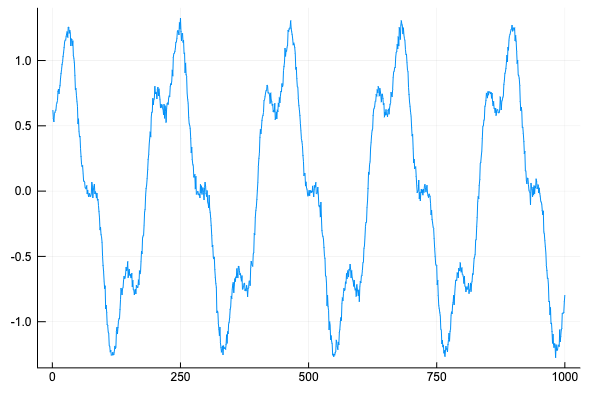
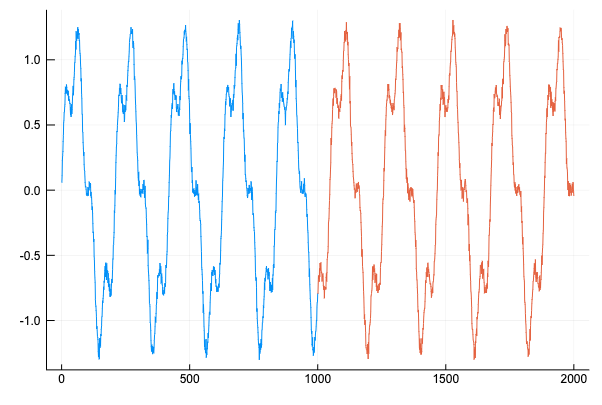
update

diff --git a/_posts/from_notebook/2019-09-04-Julia_notes_07.md b/_posts/from_notebook/2019-09-04-Julia_notes_07.md
@@ -21,11 +21,13 @@ gr()
 I will create some fake time series data as below. It's the composition of two sine functions with some normal distributed error term.
 
 ```julia
-X = sin.(range(1,30,length=1000)) + 0.3 * sin.(range(1,30,length=1000)*4) + randn(1000)/30;
+X = (sin.(range(0.03,30,length=1000)) + 0.3 * sin.(range(0.03,30,length=1000)*4) + randn(1000)/30)
+# test data are future data of the training data
+# they are different from training data because Sin has period 2*pi which is not rational
+X_test = (sin.(range(30.03,60,length=1000)) + 0.3 * sin.(range(30.03,60,length=1000)*4) + randn(1000)/30)
 plot(X,label="");
 ```
 <center><img src="/assets/figures/julia_notes/07_data.png" width="600" ></center>
-
 
 # 2. Problem description
 
@@ -93,15 +95,15 @@ function loss(xs,ys)
     return l
 end
 # Adam optimizer
-opt = ADAM(0.002)
+opt = ADAM(0.001)
 # train for 100 epochs
-epochs = 100
+epochs = 200
 for epoch in 1:epochs
     for minibatch in data
         Flux.train!(loss, params(model),[minibatch], opt)
     end
     # print loss for all three mini-batchs every 10 epochs
-    if epoch % 10 ==0
+    if epoch % 20 ==0
         println("epoch $epoch:")
         println("$(Tracker.data(loss(data[1]...))),\t\t$(Tracker.data(loss(data[2]...))),\t\t$(Tracker.data(loss(data[3]...)))")
     end
@@ -109,26 +111,26 @@ end
 ```
 
 ```
-epoch 10:
-0.20505875,		0.21414189,		0.18985265
 epoch 20:
-0.06137546,		0.061469544,		0.05728308
-epoch 30:
-0.026156224,		0.026726793,		0.027290648
+0.17965314,		0.19062711,		0.17659807
 epoch 40:
-0.021102335,		0.021497905,		0.022359867
-epoch 50:
-0.011918176,		0.011924048,		0.012644442
+0.028906763,		0.02891924,		0.02945946
 epoch 60:
-0.005181433,		0.0053714043,		0.0052413577
-epoch 70:
-0.0038366097,		0.0040489896,		0.0038878573
+0.013280542,		0.01394347,		0.013914293
 epoch 80:
-0.002491883,		0.0026454614,		0.0025166033
-epoch 90:
-0.0016024113,		0.0017000829,		0.0015301167
+0.005228083,		0.005093274,		0.005429643
 epoch 100:
-0.0014567217,		0.0014943186,		0.0013296758
+0.003956349,		0.0037793624,		0.0042144856
+epoch 120:
+0.0019410179,		0.0018023388,		0.002094826
+epoch 140:
+0.0013118078,		0.0011917885,		0.0014822737
+epoch 160:
+0.0012372733,		0.0011272279,		0.001435466
+epoch 180:
+0.0011470213,		0.0010351199,		0.0013277353
+epoch 200:
+0.001106722,		0.0010026643,		0.001290367
 ```
 
 We can see the loss function decreases pretty well. 
@@ -142,12 +144,15 @@ The following figure contains 5 prediction plots
 3. use [501,550] to predict [551,750]
 4. use [751,800] to predict [801,1000]
 5. use [1,50] to predict [51,1000]
+6. use [951,1000] to predict [1001,2000]    <---- compare with test data
 
 ```julia
 X_pred_1 = X[1:50]
 X_pred_2 = X[251:300]
 X_pred_3 = X[501:550]
 X_pred_4 = X[751:800]
+X_pred_test = X[951:1000]
+
 # remember to call Flux.reset! after each step
 for i in 1:200
     Flux.reset!(model)
@@ -161,8 +166,12 @@ for i in 1:950
     Flux.reset!(model)
     push!(X_pred_1,Tracker.data(model(X_pred_1[i:49+i])[end]))
 end
+for i in 1:1000
+    Flux.reset!(model)
+    push!(X_pred_test,Tracker.data(model(X_pred_test[i:49+i])[end]))
+end
 # set a layout, 4 subplots in row 1 and 1 subplot in row 2
-l = @layout [a b c d; f]
+l = @layout [a b c d; f;g]
 plot(1:250,X[1:250],label="")
 p1 = plot!(51:250,X_pred_1[51:250],lw=5,linealpha=0.4,c=:red,label="")
 plot(251:500,X[251:500],label="")
@@ -173,12 +182,15 @@ plot(751:1000,X[751:1000],label="")
 p4 = plot!(801:1000,X_pred_4[51:250],lw=5,linealpha=0.4,c=:red,label="")
 plot(X,label="real")
 p5 = plot!(51:1000,X_pred_1[51:1000],lw=5,linealpha=0.4,c=:red,label="prediction")
-plot(p1,p2,p3,p4,p5,layout=l,size=(800,400))
+plot(1001:2000,X_test,label="test")
+plot!(951:1000,X[951:1000],label="train")
+p6 = plot!(1001:2000,X_pred_test[51:1050],lw=5,linealpha=0.4,c=:orange,label="prediction")
+plot(p1,p2,p3,p4,p5,p6,layout=l,size=(900,400))
 ```
 
 <center><img src="/assets/figures/julia_notes/07_prediction.png" width="1000" ></center>
 
-It can be seen from the above figure that our predictions of the next 200 timestamps using 50 timestamps are pretty well. Even for the prediction of 950 future timestamps, the shape is correct with only some minor delays of the prediction.
+It can be seen from the above figure that our predictions of the next 200 timestamps using 50 timestamps are pretty well. Even for the prediction of 950 future timestamps, the shape is correct with only some minor delays of the prediction. The model behaves quite well on the test data. So it means that the model did not simply memorize the training set to make good predictions.
 
 # 6. Further
 
